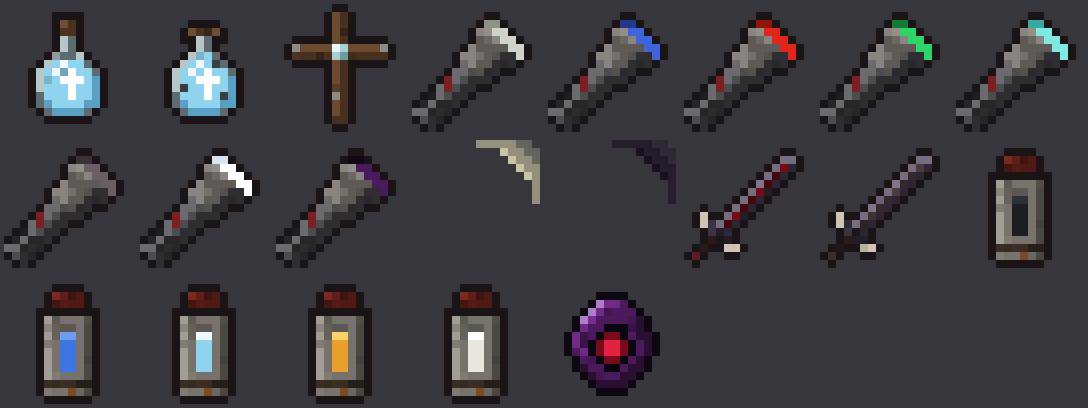
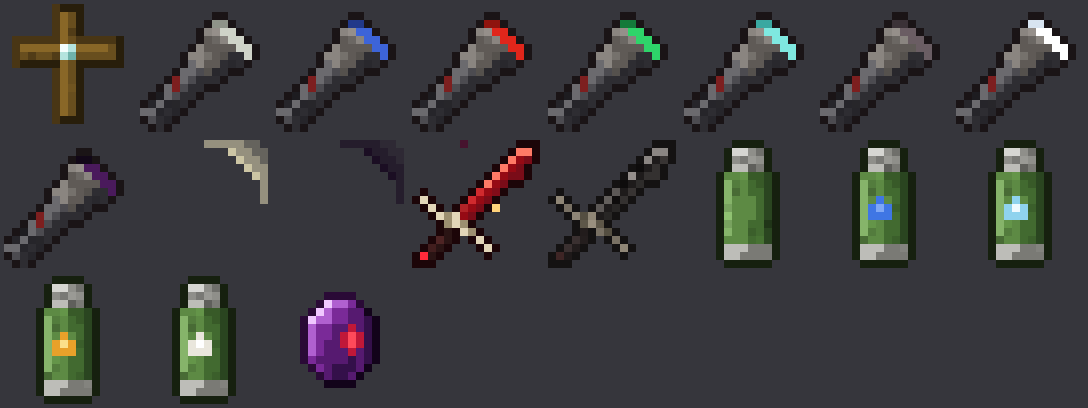
Rework items to vanilla style
- holy water / splash: vanilla potion textures + constant tint
- Unholy Sword: vanilla-like silhouette, crimson blade, rising ember
  particles; distinct ashen cracked discharged variant
- thermos: slim green flask with liquid-colored label
- nightmare gem: emerald-shaped; crucifix: vanilla stick palette

Claude-Session: https://claude.ai/code/session_01FVt4R5qNqd7iLqoQ87UoPX

diff --git a/assets_src/tools/make_items.py b/assets_src/tools/make_items.py
@@ -21,67 +21,30 @@ def save(img, rel, mcmeta=None):
         (p.parent / (p.name + ".mcmeta")).write_text(json.dumps(mcmeta, indent=2) + "\n")
     OUT.append((rel, img))
 
-# ------------------------------------------------------------------ woda święcona
-BOTTLE = """
-................
-......oooo......
-......oCco......
-......occo......
-......oLgo......
-......oLgo......
-.....oLggLo.....
-....oLBwBBgo....
-...oLBwBxBBgo...
-...oLBBxxxBbo...
-...oLBBBxBBbo...
-...ogBBBxBBbo...
-...ogbBBBBbbo...
-....ogbbbbgo....
-.....oooooo.....
-................"""
-SPLASH = """
-................
-................
-......oooo......
-.....oCccCo.....
-.....ooLgoo.....
-......oLgo......
-.....oLBBgo.....
-....oLBwBsgo....
-...oLBwBxBBgo...
-...oLBBxxxBbo...
-...oLsBBxBBbo...
-...ogBBBxBsbo...
-...ogbBBBBbbo...
-....ogbbbbgo....
-.....oooooo.....
-................"""
-GLASS = {"o": O, "g": hexc("5d6b70"), "L": hexc("b7c6c8"), "C": hexc("6e4d30"), "c": hexc("4a3221"),
-         "B": hexc("8fd3ee"), "b": hexc("5a9fc4"), "w": hexc("eefaff"), "x": hexc("ffffff"), "s": hexc("3a3d40")}
-save(render(BOTTLE, GLASS, grime=0.10, seed=1, protect="oxw"), "item/holy_water.png")
-save(render(SPLASH, GLASS, grime=0.10, seed=2, protect="oxw"), "item/splash_holy_water.png")
+# woda święcona: używa vanilla minecraft:item/potion + potion_overlay z tintem (patrz make_models.py)
 
 # ------------------------------------------------------------------ krucyfiks
 CRUCIFIX = """
-.......oo.......
-......oWwo......
-......oWwo......
-......oWwo......
-..oooooWwooooo..
-.onWWWWTtWWWWno.
-.owwwwwtuwwwwwo.
-..oooooWwooooo..
-......oWwo......
-......oWwo......
-......oWwo......
-......onwo......
-......oWwo......
-......oWwo......
-......owwo......
-.......oo......."""
-save(render(CRUCIFIX, {"o": O, "W": hexc("6b4a30"), "w": hexc("47301f"), "n": hexc("8d8a86"),
-                       "T": hexc("e9f6f7"), "t": hexc("a9cfd5"), "u": hexc("6f9aa2")},
-            grime=0.18, seed=3, protect="oTtun"), "item/crucifix.png")
+......abbb......
+......acdb......
+......acdb......
+......acdb......
+.aaaaaacdaaaaab.
+.acccccTtccccdb.
+.adddddtudddddb.
+.abbbbbcdbbbbbb.
+......acdb......
+......acdb......
+......acdb......
+......acdb......
+......acdb......
+......acdb......
+......abbb......
+................"""
+# drewno w palecie vanilla patyka + łza ghasta w środku
+save(render(CRUCIFIX, {"a": hexc("493615"), "c": hexc("896727"), "d": hexc("684e1e"), "b": hexc("281e0b"),
+                       "T": hexc("f4fffd"), "t": hexc("b4e4de"), "u": hexc("6fb3ab")},
+            grime=0.08, seed=3, protect="abTtu"), "item/crucifix.png")
 
 # ------------------------------------------------------------------ diagonalne itemy (oś: lewy-dół -> prawy-góra)
 def diag(fn, size=16):
@@ -143,60 +106,78 @@ def glow_layer(color):
 save(glow_layer("fff6c8"), "item/flashlight_beam.png")
 save(glow_layer("12001a"), "item/flashlight_beam_dark.png")
 
-# ------------------------------------------------------------------ Unholy Sword
-def sword_fn(a, c):
-    if -13 <= a <= -9 and abs(c) <= 0 + (1 if a == -13 else 0):   # rękojeść + głowica
-        return "G" if a == -13 else ("g" if a % 2 else "k")
-    if a == -13 and abs(c) <= 1: return "G"
-    if a in (-8, -7) and abs(c) <= 4:                               # jelec z rogami
-        if abs(c) >= 3: return "R"
-        return "Q" if c < 0 else "q"
-    if -6 <= a <= 12 and abs(c) <= (1 if a < 11 else 0):           # ostrze
-        if a >= 11: return "E"
-        if c == 0 and a % 3 == 0: return "V"                        # żyły
-        if c == 0: return "v"
-        return "E" if c < 0 else "e"
-    return None
-SWORD = diag(sword_fn)
-SW_BASE = {"o": O, "G": hexc("5a1d24"), "g": hexc("2b1a1c"), "k": hexc("3d2628"),
-           "Q": hexc("3c3440"), "q": hexc("231d27"), "R": hexc("cfc4b4"),
-           "E": hexc("766c80"), "e": hexc("2c2534")}
+# ------------------------------------------------------------------ Unholy Sword (sylwetka w stylu vanilla)
+SWORD = """
+.............ooo
+............oHHo
+...........oHvDo
+..........oHvDo.
+.........oHvDDo.
+........oHvDoo..
+.o.....oMvDo....
+oGo...oMvDo.....
+.oGo.oMvDo......
+..oGgGvDo.......
+...ogGgo........
+...owoGgo.......
+..oWwo.oGo......
+.oWwo...oGo.....
+opwo.....o......
+ooo............."""
+rows = SWORD.strip("\n").split("\n")
+blade = [(x, y) for y in range(16) for x in range(16) if rows[y][x] in "HMvD"]
+CHG = {"o": hexc("1c0508"), "H": hexc("ff7a66"), "M": hexc("d02a2e"), "D": hexc("7a0c18"),
+       "G": hexc("e2d6b8"), "g": hexc("9c8f70"), "w": hexc("2a1414"), "W": hexc("4e2424"), "p": hexc("ff2a3a")}
+# cząsteczki: żarzące się drobinki unoszące się znad ostrza (pozycje startowe w pustych pikselach przy ostrzu)
+starts = [(9, 4), (12, 7), (6, 6), (13, 3), (10, 8), (7, 3), (11, 9), (8, 2)]
+EMBER = [hexc("ffd27a"), hexc("ff4a3a"), hexc("b0102a"), hexc("4a0a2a", 200)]
+N = 12
 frames = []
-for i in range(8):
-    t = (1 - math.cos(i / 8 * 2 * math.pi)) / 2          # 0..1..0
-    vein = tuple(int(lo + (hi - lo) * t) for lo, hi in zip((120, 10, 20), (255, 40, 60)))
-    vein2 = tuple(int(lo + (hi - lo) * t) for lo, hi in zip((70, 6, 14), (190, 20, 40)))
-    pal = dict(SW_BASE, V=vein + (255,), v=vein2 + (255,))
-    frames.append(render(SWORD, pal, grime=0.10, seed=5, protect="oVvR"))
-save(stack(frames), "item/unholy_sword.png",
-     {"animation": {"frametime": 3, "interpolate": True}})
-save(render(SWORD, dict(SW_BASE, V=hexc("4b3b3e"), v=hexc("33292c"), G=hexc("3a2a2c")),
-            grime=0.22, seed=6, protect="o"), "item/unholy_sword_discharged.png")
+for i in range(N):
+    t = (1 - math.cos(i / N * 2 * math.pi)) / 2
+    vein = tuple(int(lo + (hi - lo) * t) for lo, hi in zip((150, 10, 20), (255, 200, 120))) + (255,)
+    img = render(SWORD, dict(CHG, v=vein), grime=0.06, seed=5, protect="ovpHGg")
+    for k, (sx, sy) in enumerate(starts):
+        age = (i + k * 3) % N
+        if age >= 4: continue                       # każda drobinka żyje 4 klatki, potem przerwa
+        x, y = sx - (age // 2) * (k % 2), sy - age  # unosi się (lekko w lewo co druga)
+        if 0 <= x < 16 and 0 <= y < 16 and img.getpixel((x, y))[3] == 0:
+            img.putpixel((x, y), EMBER[age])
+    frames.append(img)
+save(stack(frames), "item/unholy_sword.png", {"animation": {"frametime": 2}})
+# rozładowany: popielate, spękane ostrze, zszarzały jelec, martwy kamień, brak cząsteczek
+DIS = {"o": hexc("141212"), "H": hexc("8a8582"), "M": hexc("5c5856"), "D": hexc("343130"), "v": hexc("1e1b1b"),
+       "G": hexc("8f8676"), "g": hexc("5e5749"), "w": hexc("221c1c"), "W": hexc("3a3030"), "p": hexc("4a2c2c")}
+dis = render(SWORD, DIS, grime=0.25, seed=6, protect="o")
+for x, y in [(11, 3), (9, 5), (8, 7)]:                # pęknięcia
+    dis.putpixel((x, y), hexc("0e0c0c"))
+save(dis, "item/unholy_sword_discharged.png")
 
-# ------------------------------------------------------------------ termos
+# ------------------------------------------------------------------ termos (klasyczna zielona piersiówka z kubkiem i rączką)
 THERMOS = """
-................
 ......oooo......
-.....oKKkko.....
-.....okkkko.....
-....oooooooo....
-....oMmmmmdo....
-....oMmDmmdo....
-....oMmffmdo....
-....oMmFFmdo....
-....oMmFFmdo....
-....oMmFFmdo....
-....oMmFFmdo....
-....oMmmmmdo....
-....oSSSSsso....
-....oMmmrmdo....
+.....oCCcco.....
+.....occcco.....
+.....oSSsso.....
+....oGGGggdo....
+....oHGGggdo....
+....oHGGggdo....
+....oHGFGgdo....
+....oHFfFgdo....
+....oHFFFgdo....
+....oHGGggdo....
+....oHGGggdo....
+....oGGGggdo....
+....oSSSssso....
+....oSSsssso....
 .....oooooo....."""
-TH_PAL = {"o": O, "K": hexc("7a2a22"), "k": hexc("4f1a15"), "M": hexc("a39e95"), "m": hexc("77726b"),
-          "d": hexc("4b4842"), "D": hexc("5b5751"), "S": hexc("3a2e24"), "s": hexc("261e18"), "r": hexc("7a4a26")}
-FILLS = {"empty": ("1d2022", "2c3134"), "water": ("3f76e4", "6f9cf0"), "holy_water": ("8fd3ee", "eefaff"),
-         "honey": ("e8a12a", "f8d36a"), "milk": ("e9e6dc", "ffffff")}
+TH_PAL = {"o": hexc("16200f"), "C": hexc("d6d6d2"), "c": hexc("8f8f8a"), "H": hexc("86b46a"), "G": hexc("5d8a44"), "g": hexc("426a30"),
+          "d": hexc("2a4520"), "S": hexc("bdbdb8"), "s": hexc("7a7a75")}
+FILLS = {"water": ("3f76e4", "7fa8f5"), "holy_water": ("8fd3ee", "eefaff"),
+         "honey": ("e8a12a", "fbe08a"), "milk": ("e9e6dc", "ffffff")}
+save(render(THERMOS.replace("F", "G").replace("f", "G"), TH_PAL, grime=0.12, seed=7, protect="o"), "item/thermos_empty.png")
 for name, (body, top) in FILLS.items():
-    save(render(THERMOS, dict(TH_PAL, F=hexc(body), f=hexc(top)), grime=0.16, seed=7, protect="oFf"),
+    save(render(THERMOS, dict(TH_PAL, F=hexc(body), f=hexc(top)), grime=0.12, seed=7, protect="oFf"),
          f"item/thermos_{name}.png")
 
 # ------------------------------------------------------------------ koszmarny klejnot
@@ -204,22 +185,23 @@ GEM = """
 ................
 ................
 ......oooo......
-.....oHhhpo.....
-....oHhppppo....
-...oHhpppppPo...
-...ohppvvvpPo...
-..ohppvRRvpPPo..
-..ohpvRrrRvpPo..
-..ophvRrrRvpPo..
-...oppvRRvpPo...
-...oPppvvpPPo...
-....oPpppPPo....
-.....oPPPPo.....
-......oooo......
+.....oHLLmo.....
+....oHLmmMMO....
+...oHLLmmMMdO...
+...oLmmMMrMdO...
+...oLmmMrRrdO...
+...oLmMMrRrdO...
+...oLmMMMrMdO...
+...omMMMMdMdO...
+....omMdddMO....
+.....oMddMO.....
+......OOOO......
+................
 ................"""
-save(render(GEM, {"o": hexc("0c0710"), "H": hexc("b07ccc"), "h": hexc("6f2a86"), "p": hexc("4b1a5c"),
-                  "P": hexc("2a0f33"), "v": hexc("0b0710"), "R": hexc("7a0a1c"), "r": hexc("e0213f")},
-            grime=0.12, seed=8, protect="oHrR"), "item/nightmare_gem.png")
+# fasetowany klejnot w kształcie emeralda: fiolet nocy z czerwonym rdzeniem
+save(render(GEM, {"o": hexc("2a0a36"), "O": hexc("12031a"), "H": hexc("f0c8ff"), "L": hexc("b060d0"),
+                  "m": hexc("7a2a98"), "M": hexc("561a70"), "d": hexc("34104a"),
+                  "r": hexc("c01838"), "R": hexc("ff4a5a")}), "item/nightmare_gem.png")
 
 if __name__ == "__main__":
     preview(OUT, PREV / "items_preview.png")

diff --git a/assets_src/tools/make_models.py b/assets_src/tools/make_models.py
@@ -18,7 +18,15 @@ def ref(name):
     return {"type": "minecraft:model", "model": f"{NS}:item/{name}"}
 
 # proste
-for n in ("holy_water", "splash_holy_water", "crucifix", "nightmare_gem"):
+# woda święcona: identyczna butelka jak vanilla (tekstury minecraft), płyn barwiony tintem warstwy 0
+HOLY_TINT = 0x9CE4FF
+for n, bottle in (("holy_water", "minecraft:item/potion"), ("splash_holy_water", "minecraft:item/splash_potion")):
+    w(f"models/item/{n}.json", {"parent": "minecraft:item/generated",
+      "textures": {"layer0": "minecraft:item/potion_overlay", "layer1": bottle}})
+    w(f"items/{n}.json", {"model": {"type": "minecraft:model", "model": f"{NS}:item/{n}",
+      "tints": [{"type": "minecraft:constant", "value": HOLY_TINT}]}})
+
+for n in ("crucifix", "nightmare_gem"):
     model(n, [n]); w(f"items/{n}.json", {"model": ref(n)})
 
 # latarka: custom_model_data.strings[0] = rdzeń, flags[0] = włączona

diff --git a/assets_src/tools/sprites.py b/assets_src/tools/sprites.py
@@ -32,7 +32,7 @@ def preview(items, path, scale=8, cols=8, bg=(54, 54, 60, 255)):
     rows = (len(items) + cols - 1) // cols
     sheet = Image.new("RGBA", (cols * cell, rows * cell), bg)
     for i, (_, im) in enumerate(items):
-        fr = im.crop((0, 0, im.width, min(im.height, im.width)))
+        fr = im.convert("RGBA").crop((0, 0, im.width, min(im.height, im.width)))
         s = (16 * scale) // fr.width
         fr = fr.resize((fr.width * s, fr.height * s), Image.NEAREST)
         sheet.alpha_composite(fr, ((i % cols) * cell + 4, (i // cols) * cell + 4))

diff --git a/docs/ASSETS.md b/docs/ASSETS.md
@@ -72,17 +72,17 @@ Deadly Slenderman: ta sama tekstura, tint `0xFFB02020` (czerwonawy) i skala ×1,
 
 ---
 
-## 2. Itemy (16×16, styl mroczny/brudny)
+## 2. Itemy (16×16, styl vanilla)
 
 | Item id | Tekstury (`textures/item/`) | Model / wybór wariantu |
 |---|---|---|
-| `holy_water` | `holy_water.png` | prosty |
-| `splash_holy_water` | `splash_holy_water.png` | prosty |
-| `crucifix` | `crucifix.png` | prosty; glint enchantu vanilla |
-| `nightmare_gem` | `nightmare_gem.png` | prosty |
+| `holy_water` | **vanilla** `minecraft:item/potion_overlay` + `minecraft:item/potion` | butelka identyczna z vanilla; płyn = tint warstwy 0 `0x9CE4FF` (stała w `items/holy_water.json`) |
+| `splash_holy_water` | **vanilla** `minecraft:item/potion_overlay` + `minecraft:item/splash_potion` | jw. |
+| `crucifix` | `crucifix.png` (drewno w palecie vanilla patyka, łza ghasta w środku) | prosty; glint enchantu vanilla |
+| `nightmare_gem` | `nightmare_gem.png` (kształt jak emerald, fiolet z czerwonym rdzeniem) | prosty |
 | `flashlight` | `flashlight_<rdzeń>.png` + nakładka `flashlight_beam.png` / `flashlight_beam_dark.png` | `custom_model_data.strings[0]` = rdzeń, `flags[0]` = włączona |
-| `unholy_sword` | `unholy_sword.png` (animowany, 8 klatek, `frametime 3`, interpolacja) / `unholy_sword_discharged.png` | `custom_model_data.flags[0]` = rozładowany |
-| `thermos` | `thermos_{empty,water,holy_water,honey,milk}.png` | `custom_model_data.strings[0]` = płyn |
+| `unholy_sword` | `unholy_sword.png` (sylwetka jak miecze vanilla, karmazynowe ostrze, kościany jelec; 12 klatek, `frametime 2`: pulsująca żyła + unoszące się żarzące drobinki) / `unholy_sword_discharged.png` (popielate, spękane, bez cząsteczek) | `custom_model_data.flags[0]` = rozładowany |
+| `thermos` | `thermos_{empty,water,holy_water,honey,milk}.png` (zielona piersiówka; kolor etykiety-kropli = płyn, pusty = bez etykiety) | `custom_model_data.strings[0]` = płyn |
 
 Rdzenie latarki (`strings[0]`): `lapis`, `redstone`, `emerald`, `diamond`, `netherite`, `nether_star`, `nightmare_gem`. Brak wartości lub nieznana wartość daje `none`. Kolor soczewki = kolor rdzenia. Przy `nightmare_gem` nakładka „włączona” to **ciemna** poświata (`flashlight_beam_dark`).
 Płyny termosu (`strings[0]`): `water`, `holy_water`, `honey`, `milk`. Brak wartości = pusty.
